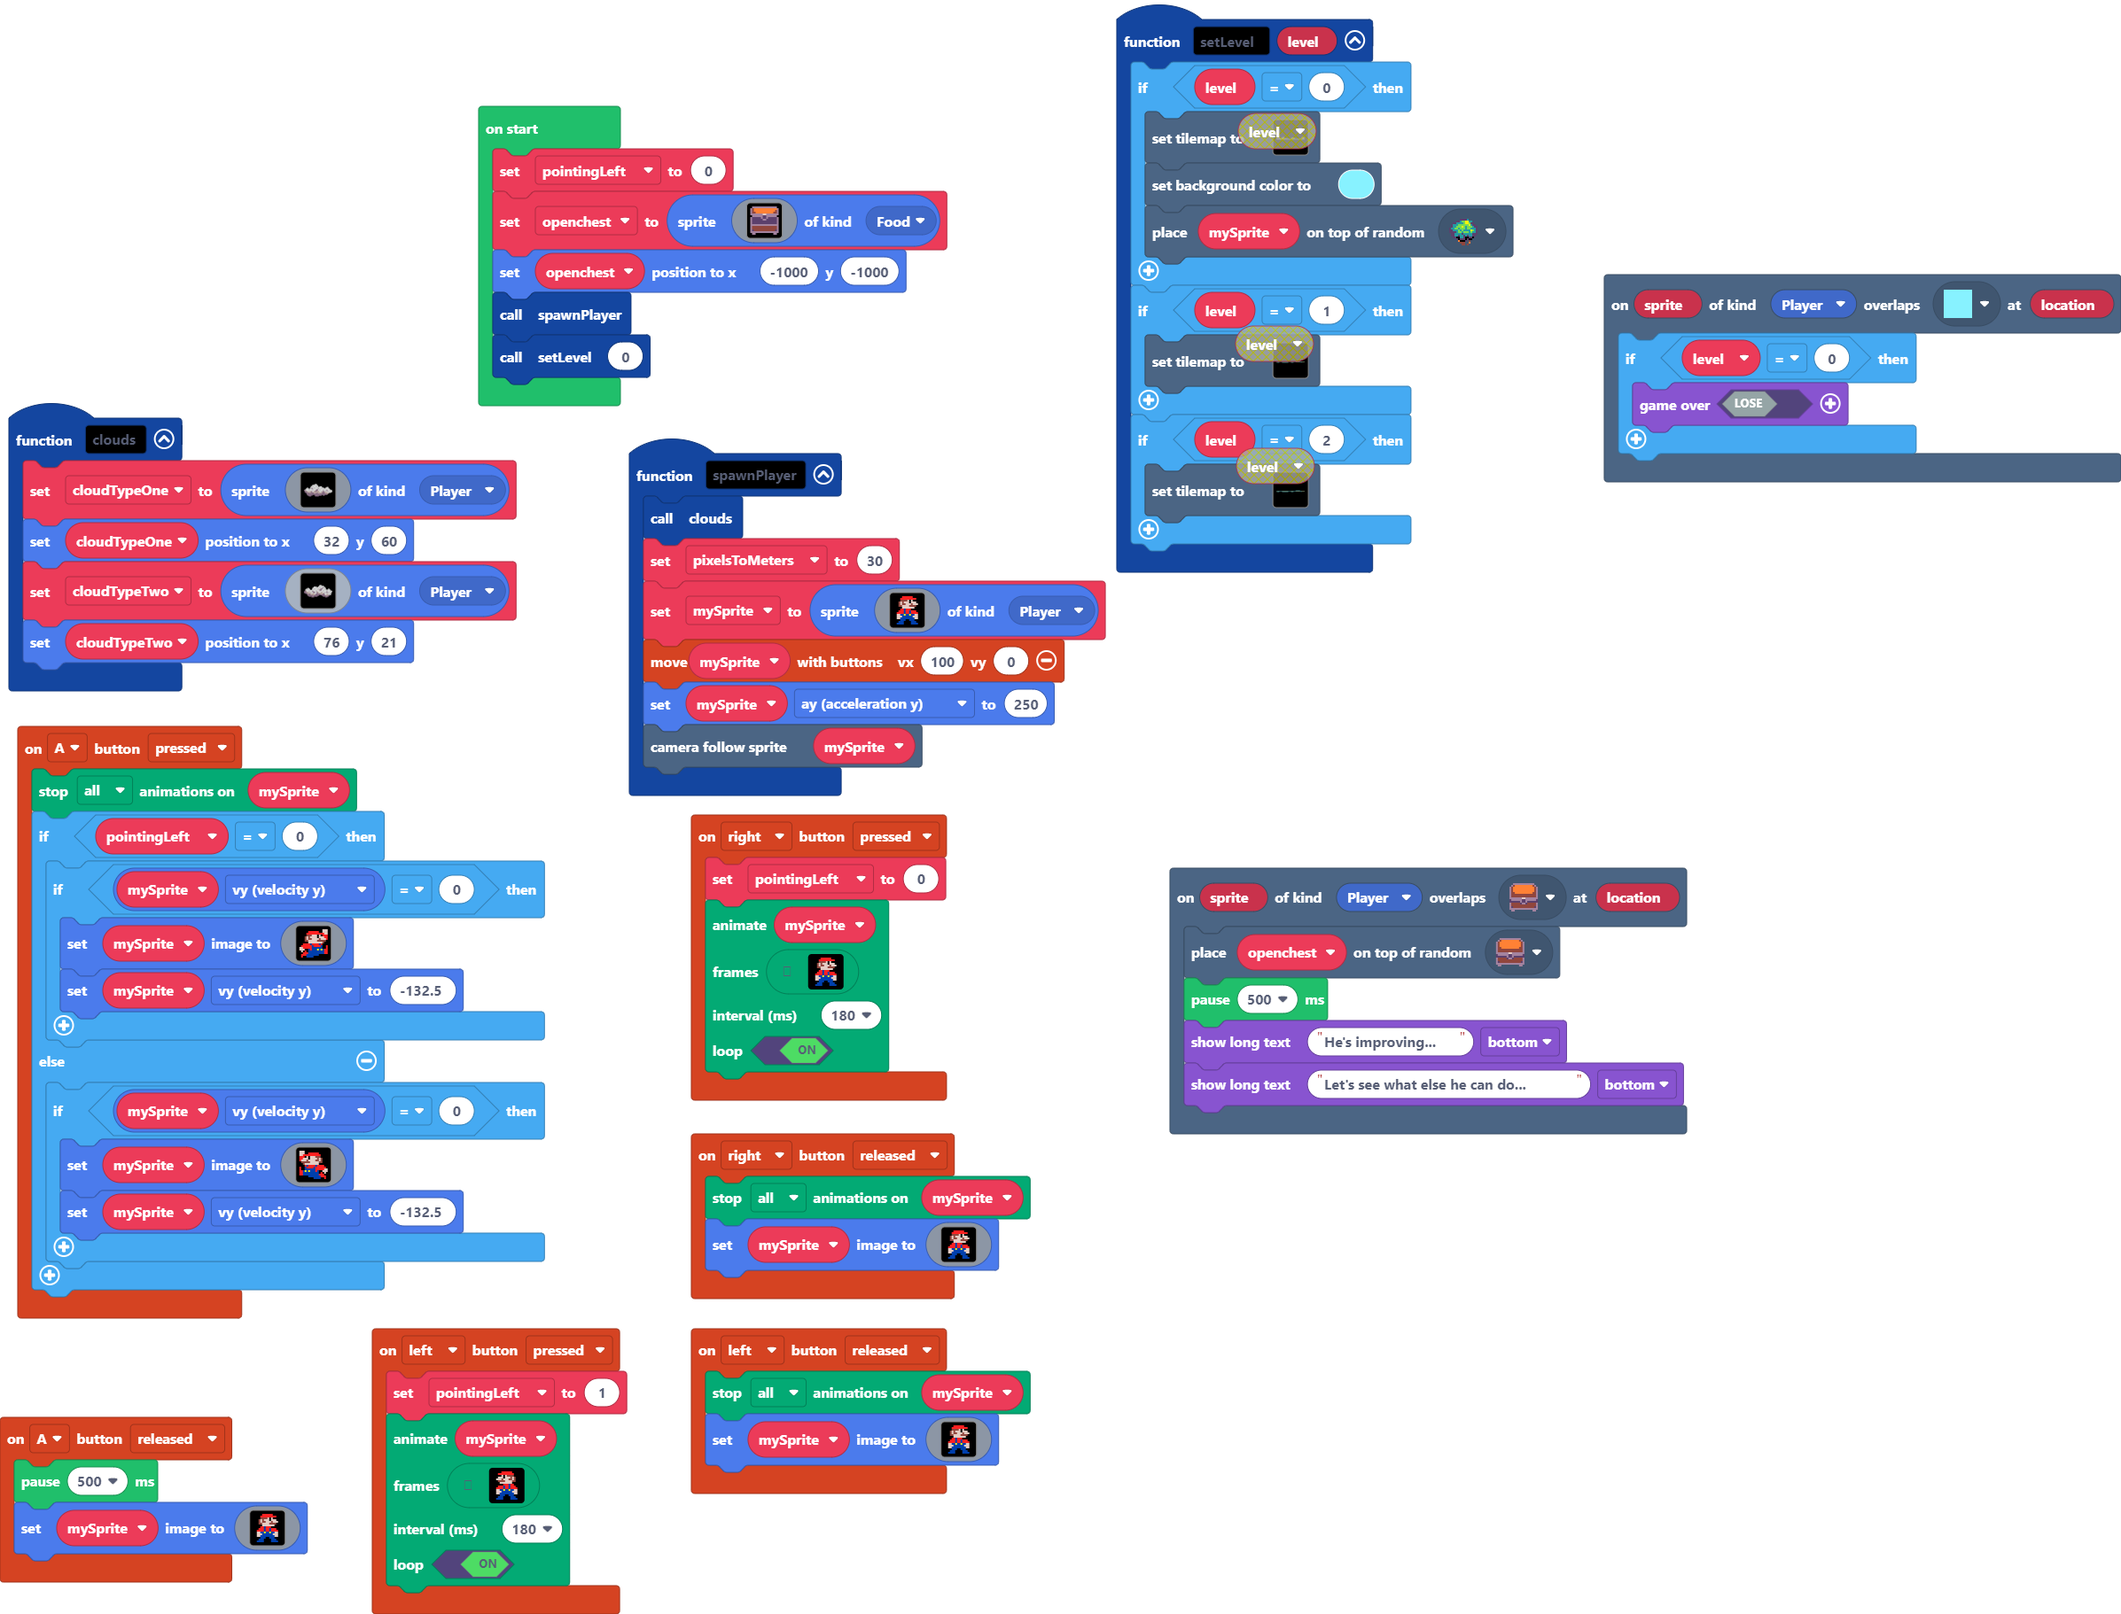
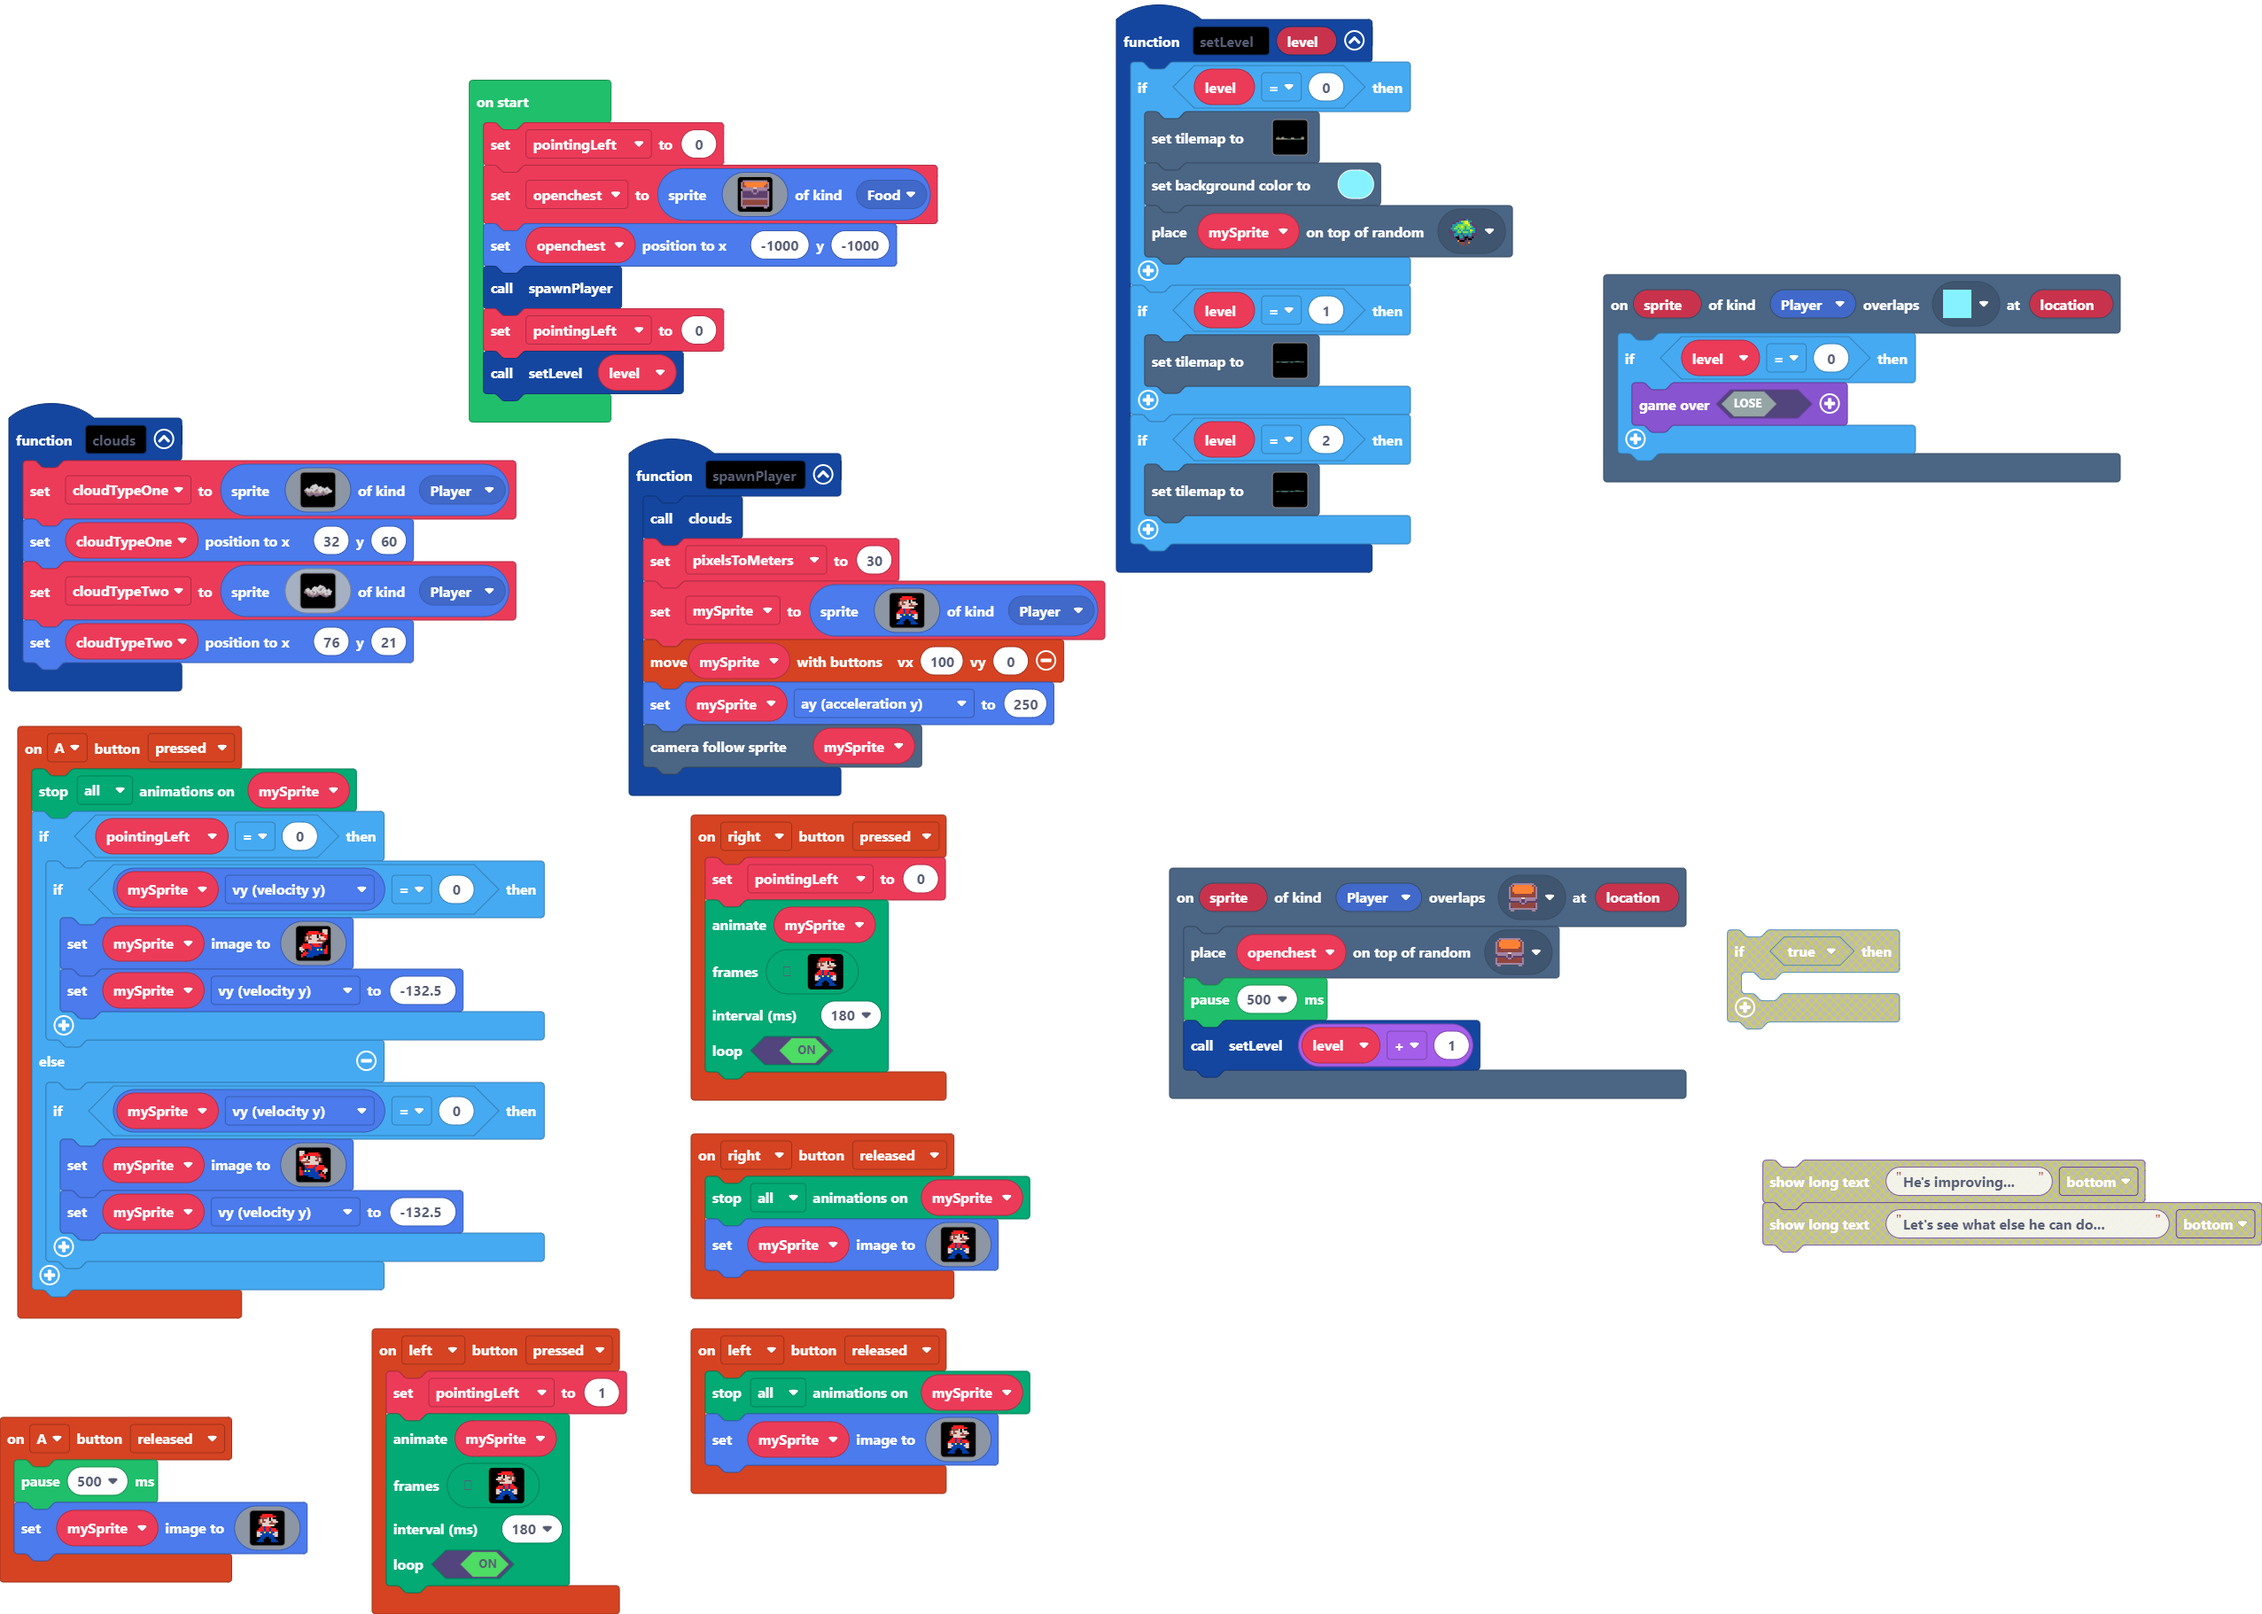
Update main.blocks, main.ts

diff --git a/main.ts b/main.ts
@@ -43,7 +43,6 @@ controller.A.onEvent(ControllerButtonEvent.Pressed, function () {
     }
 })
 scene.onOverlapTile(SpriteKind.Player, assets.tile`myTile7`, function (sprite, location) {
-    let level = 0
     if (level == 0) {
         game.over(false)
     }
@@ -102,8 +101,7 @@ controller.left.onEvent(ControllerButtonEvent.Released, function () {
 scene.onOverlapTile(SpriteKind.Player, sprites.dungeon.chestClosed, function (sprite, location) {
     tiles.placeOnRandomTile(openchest, sprites.dungeon.chestClosed)
     pause(500)
-    game.showLongText("He's improving...", DialogLayout.Bottom)
-    game.showLongText("Let's see what else he can do...", DialogLayout.Bottom)
+    setLevel(level + 1)
 })
 controller.right.onEvent(ControllerButtonEvent.Pressed, function () {
     pointingLeft = 0
@@ -212,6 +210,7 @@ let pixelsToMeters = 0
 let cloudTypeTwo: Sprite = null
 let cloudTypeOne: Sprite = null
 let mySprite: Sprite = null
+let level = 0
 let openchest: Sprite = null
 let pointingLeft = 0
 pointingLeft = 0
@@ -235,4 +234,5 @@ openchest = sprites.create(img`
     `, SpriteKind.Food)
 openchest.setPosition(-1000, -1000)
 spawnPlayer()
-setLevel(0)
+pointingLeft = 0
+setLevel(level)
